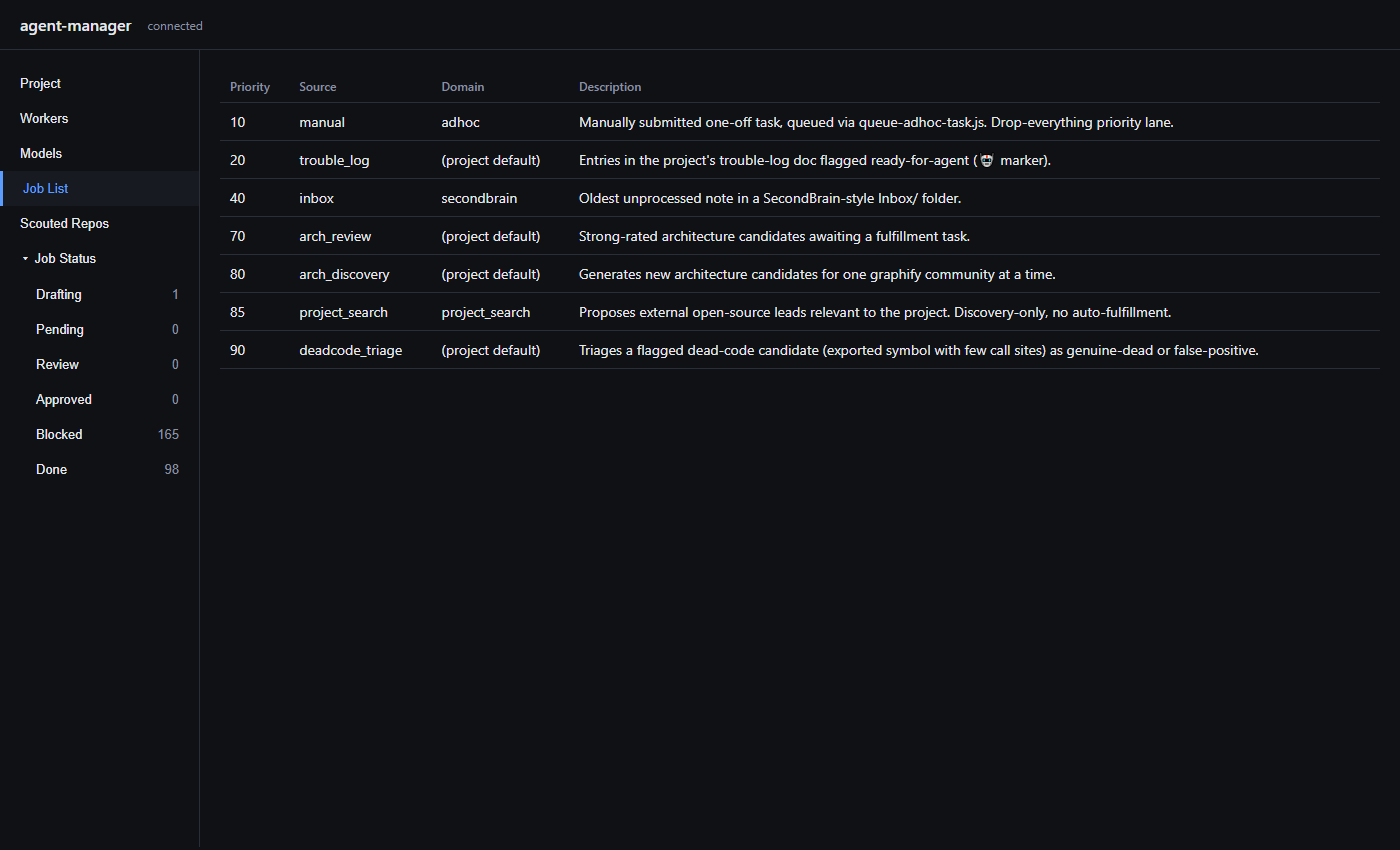
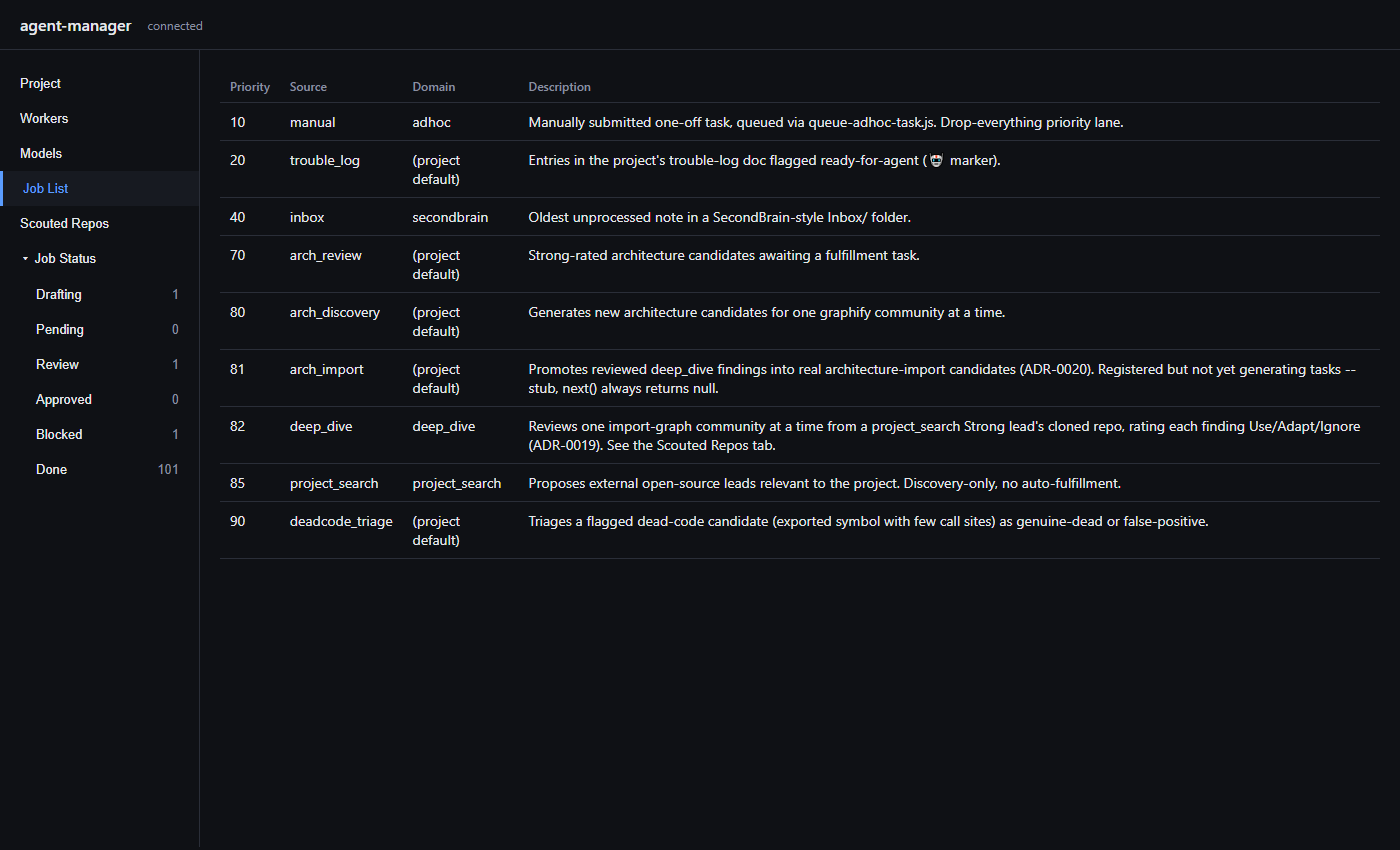
fix(dashboard): add missing arch_import/deep_dive rows to Job List tab
The Job List tab's source encyclopedia is a hand-maintained static list,
not read from the registry, and had drifted: arch_import (priority 81)
and deep_dive (82) were both registered in task-sources.js but absent
from the tab. Adds both, and refreshes the README's Job List screenshot
to match.

diff --git a/python/dashboard/templates/index.html b/python/dashboard/templates/index.html
@@ -396,6 +396,8 @@ const JOB_TYPES = [
   { source: 'inbox', domain: 'secondbrain', priority: 40, description: 'Oldest unprocessed note in a SecondBrain-style Inbox/ folder.' },
   { source: 'arch_review', domain: '(project default)', priority: 70, description: 'Strong-rated architecture candidates awaiting a fulfillment task.' },
   { source: 'arch_discovery', domain: '(project default)', priority: 80, description: 'Generates new architecture candidates for one graphify community at a time.' },
+  { source: 'arch_import', domain: '(project default)', priority: 81, description: 'Promotes reviewed deep_dive findings into real architecture-import candidates (ADR-0020). Registered but not yet generating tasks -- stub, next() always returns null.' },
+  { source: 'deep_dive', domain: 'deep_dive', priority: 82, description: 'Reviews one import-graph community at a time from a project_search Strong lead\'s cloned repo, rating each finding Use/Adapt/Ignore (ADR-0019). See the Scouted Repos tab.' },
   { source: 'project_search', domain: 'project_search', priority: 85, description: 'Proposes external open-source leads relevant to the project. Discovery-only, no auto-fulfillment.' },
   { source: 'deadcode_triage', domain: '(project default)', priority: 90, description: 'Triages a flagged dead-code candidate (exported symbol with few call sites) as genuine-dead or false-positive.' },
 ];